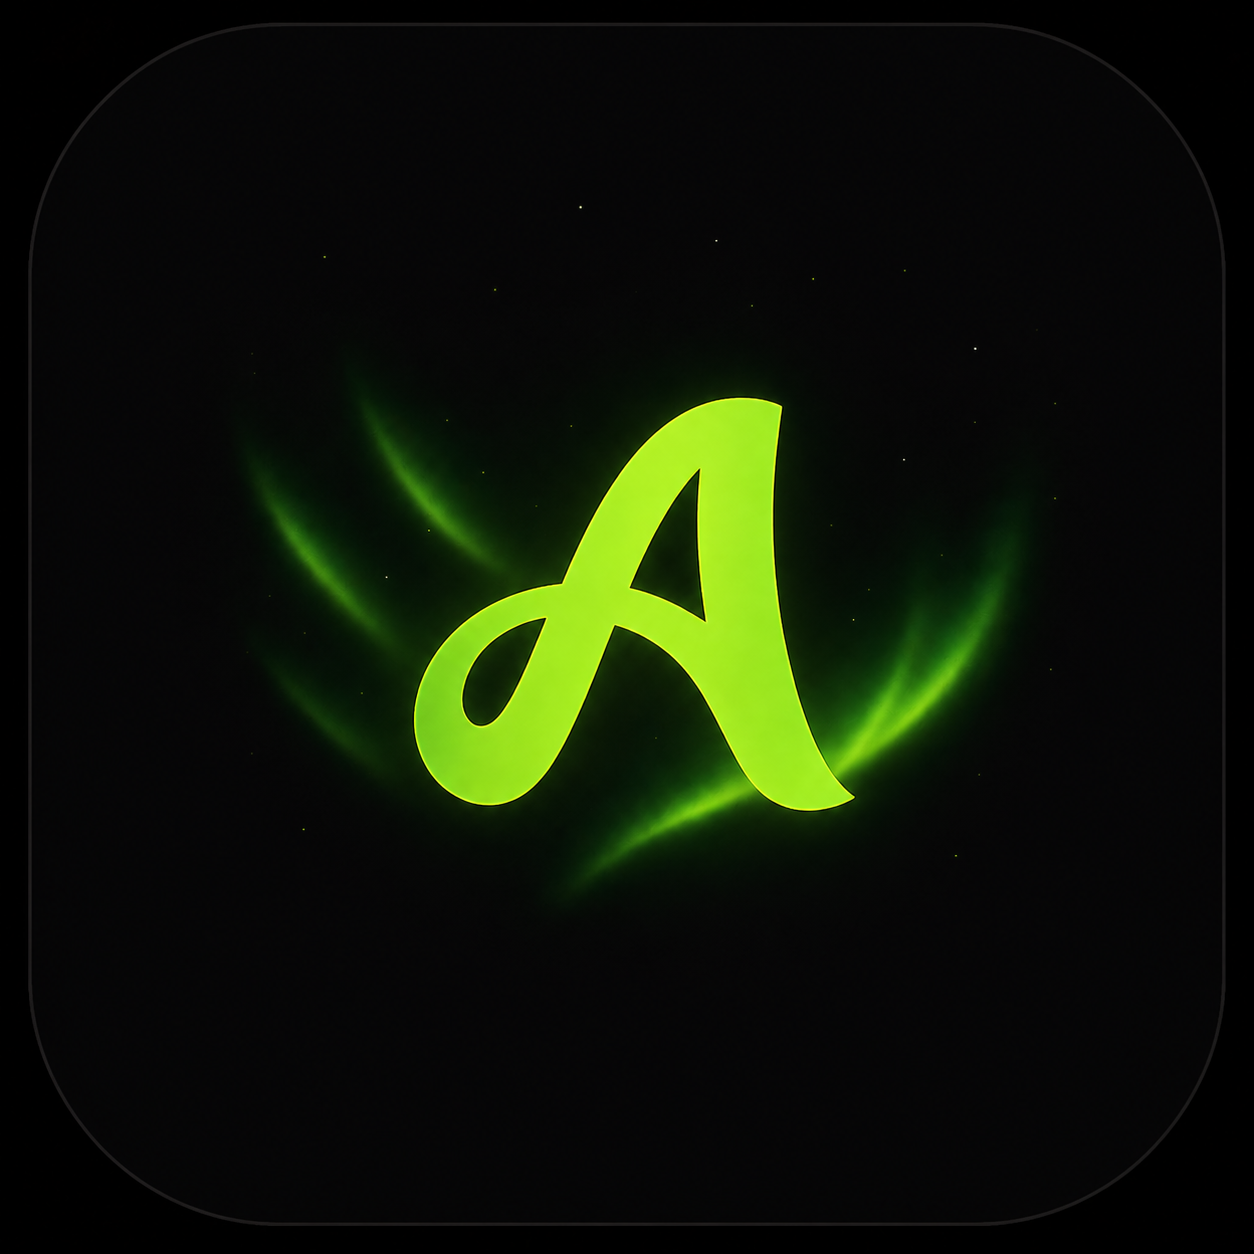
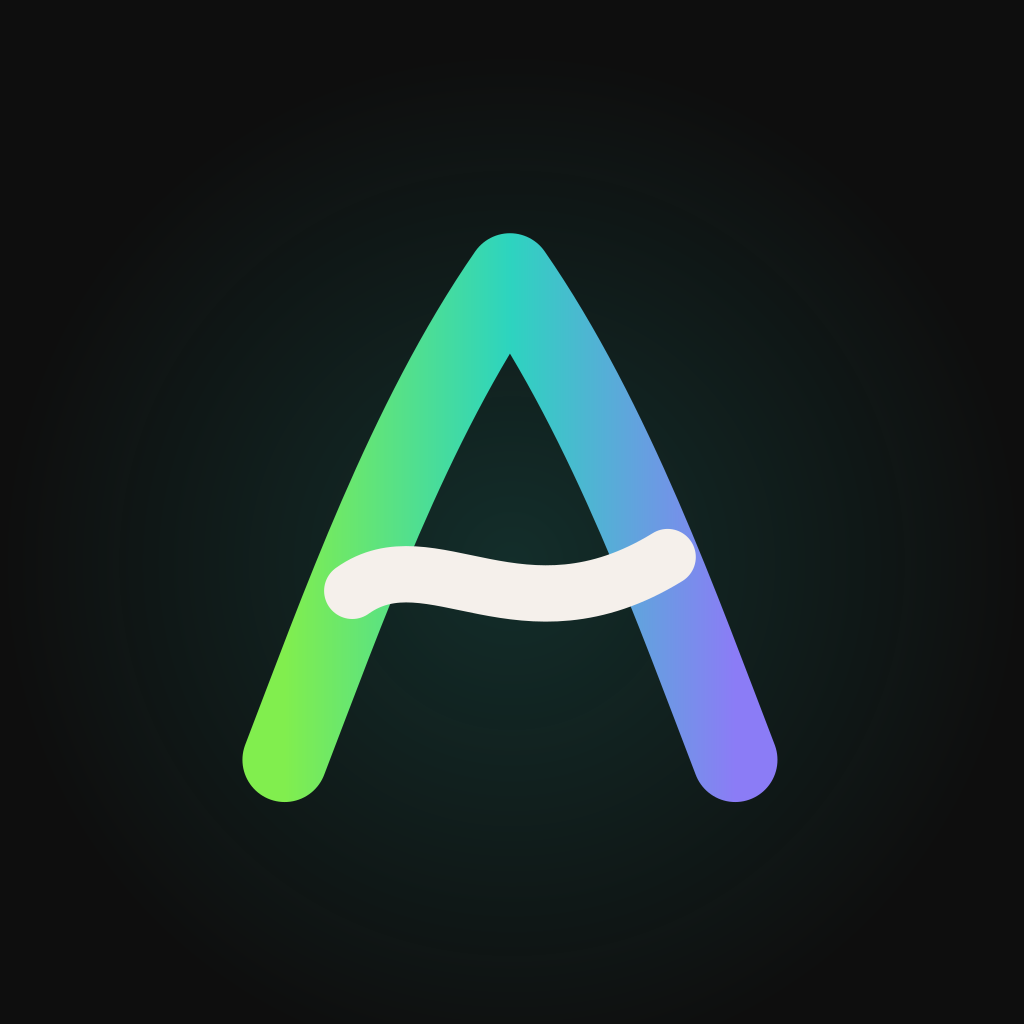
branding changes

Changed region(s): [[0.2188, 0.2188, 0.8125, 0.8125]]

diff --git a/apps/web/app/components/Logo.tsx b/apps/web/app/components/Logo.tsx
@@ -1,57 +1,87 @@
 import Link from "next/link";
-import Image from "next/image";
-import { SITE_LOGO_URL } from "@/lib/site";
+import { useId } from "react";
+
+/**
+ * Aurora logo: the ribbon "A" (aurora gradient legs, wave crossbar) is the first
+ * letter of the wordmark. Everything is inline SVG — the "urora" letters are
+ * Manrope ExtraBold converted to outlines — so it renders identically everywhere
+ * and needs no font download. Static files live in /public/brand.
+ */
+
+const LEGS = "M8 47 C 13 34, 19 17, 28 4 C 37 17, 43 34, 48 47";
+const BAR = "M14 32 C 21 27, 29 37, 42 29";
+const WORD =
+  "M2034 32Q1907 32 1827 -11Q1747 -54 1702 -120Q1658 -186 1639 -258Q1620 -329 1616 -388Q1612 -447 1612 -474V-1080H1888V-570Q1888 -533 1892 -476Q1896 -418 1917 -360Q1938 -302 1986 -263Q2033 -224 2120 -224Q2155 -224 2195 -235Q2235 -246 2270 -278Q2305 -309 2328 -370Q2350 -432 2350 -532V-1080H2624V0H2384V-111Q2347 -69 2298 -37Q2193 32 2034 32Z M2864 0V-1080H3104V-906Q3117 -930 3134 -952Q3169 -998 3220 -1028Q3259 -1052 3305 -1066Q3351 -1079 3400 -1082Q3449 -1086 3498 -1080V-826Q3453 -840 3394 -836Q3334 -831 3286 -808Q3238 -786 3205 -750Q3172 -713 3155 -664Q3138 -614 3138 -552V0Z M4134 30Q3971 30 3848 -43Q3725 -116 3656 -244Q3588 -373 3588 -540Q3588 -709 3658 -838Q3728 -966 3851 -1038Q3974 -1110 4134 -1110Q4297 -1110 4420 -1037Q4544 -964 4613 -836Q4682 -707 4682 -540Q4682 -372 4612 -244Q4543 -115 4420 -42Q4296 30 4134 30ZM4134 -224Q4265 -224 4330 -312Q4394 -401 4394 -540Q4394 -684 4328 -770Q4263 -856 4134 -856Q4045 -856 3988 -816Q3931 -776 3904 -705Q3876 -634 3876 -540Q3876 -395 3942 -310Q4007 -224 4134 -224Z M4862 0V-1080H5102V-906Q5115 -930 5132 -952Q5167 -998 5218 -1028Q5257 -1052 5303 -1066Q5349 -1079 5398 -1082Q5447 -1086 5496 -1080V-826Q5451 -840 5392 -836Q5332 -831 5284 -808Q5236 -786 5203 -750Q5170 -713 5153 -664Q5136 -614 5136 -552V0Z M5946 30Q5830 30 5750 -14Q5669 -59 5628 -134Q5586 -208 5586 -298Q5586 -373 5609 -435Q5632 -497 5684 -544Q5735 -592 5822 -624Q5882 -646 5965 -663Q6048 -680 6153 -696Q6215 -705 6284 -715Q6276 -782 6240 -817Q6194 -862 6086 -862Q6026 -862 5961 -833Q5896 -804 5870 -730L5624 -808Q5665 -942 5778 -1026Q5891 -1110 6086 -1110Q6229 -1110 6340 -1066Q6451 -1022 6508 -914Q6540 -854 6546 -794Q6552 -734 6552 -660V0H6314V-133Q6250 -57 6178 -19Q6086 30 5946 30ZM6004 -184Q6079 -184 6130 -210Q6182 -237 6212 -271Q6243 -305 6254 -328Q6275 -372 6279 -431Q6281 -466 6281 -495Q6214 -483 6166 -475Q6091 -461 6045 -450Q5999 -439 5964 -426Q5924 -410 5900 -392Q5875 -373 5864 -351Q5852 -329 5852 -302Q5852 -265 5870 -238Q5889 -212 5923 -198Q5957 -184 6004 -184Z";
+
+/** Lockup width ÷ height. */
+const FULL_RATIO = 6552 / 1510;
 
 interface LogoProps {
-  href?: string;
+  /** Link target; pass `null` to render without a link. */
+  href?: string | null;
+  /** Rendered height in px. */
+  height?: number;
+  /** `full` = A + "urora" wordmark, `mark` = the A on its own. */
+  variant?: "full" | "mark";
   showTagline?: boolean;
-  /** Icon size in px (navbar default 35). */
-  size?: number;
-  priority?: boolean;
-  /**
-   * Skip `/_next/image` and load `src` directly. Default true for the Cloudinary logo
-   * so production doesn’t depend on the optimizer fetching remote URLs (navbar/footer behave the same).
-   */
-  unoptimized?: boolean;
+  className?: string;
 }
 
-const Logo = ({
-  href = "/",
-  showTagline = false,
-  size = 35,
-  priority = true,
-  unoptimized = true,
-}: LogoProps) => {
-  const content = (
-    <div className="flex items-center gap-2">
-      <Image
-        src={SITE_LOGO_URL}
-        alt="Aurora"
-        width={size}
-        height={size}
+function Mark({ gradientId }: { gradientId: string }) {
+  return (
+    <>
+      <defs>
+        <linearGradient id={gradientId} gradientUnits="userSpaceOnUse" x1="8" y1="0" x2="48" y2="0">
+          <stop offset="0" stopColor="#81ee4e" />
+          <stop offset="0.5" stopColor="#2dd4bf" />
+          <stop offset="1" stopColor="#8b7cf6" />
+        </linearGradient>
+      </defs>
+      <path d={LEGS} fill="none" stroke={`url(#${gradientId})`} strokeWidth="8.6" strokeLinecap="round" strokeLinejoin="round" />
+      <path d={BAR} fill="none" stroke="currentColor" strokeWidth="5.4" strokeLinecap="round" />
+    </>
+  );
+}
+
+const Logo = ({ href = "/", height = 24, variant = "full", showTagline = false, className = "" }: LogoProps) => {
+  const gradientId = `aurora-a-${useId().replace(/[^a-zA-Z0-9_-]/g, "")}`;
+
+  const svg =
+    variant === "mark" ? (
+      <svg viewBox="0 -2.5 56 56" width={height} height={height} role="img" aria-label="Aurora" className="shrink-0">
+        <Mark gradientId={gradientId} />
+      </svg>
+    ) : (
+      <svg
+        viewBox="40 -1480 6552 1510"
+        width={Math.round(height * FULL_RATIO)}
+        height={height}
+        role="img"
+        aria-label="Aurora"
         className="shrink-0"
-        sizes={`${size}px`}
-        priority={priority}
-        unoptimized={unoptimized}
-      />
+      >
+        <g transform="translate(-76 -1460) scale(29)">
+          <Mark gradientId={gradientId} />
+        </g>
+        <path fill="currentColor" d={WORD} />
+      </svg>
+    );
+
+  const content = (
+    <span className={`flex items-center gap-2 ${href ? "" : className}`} style={{ color: "var(--text-primary)" }}>
+      {svg}
       {showTagline && (
-        <span
-          className="text-[10px] tracking-[0.4em] uppercase mt-0.5"
-          style={{ color: 'var(--text-muted)' }}
-        >
+        <span className="mt-0.5 text-[10px] uppercase tracking-[0.4em]" style={{ color: "var(--text-muted)" }}>
           Visual Culture
         </span>
       )}
-    </div>
+    </span>
   );
 
   if (!href) return content;
 
   return (
-    <Link
-      href={href}
-      className="transition-opacity hover:opacity-70"
-    >
+    <Link href={href} className={`shrink-0 transition-opacity hover:opacity-80 ${className}`}>
       {content}
     </Link>
   );

diff --git a/apps/web/app/admin/AdminShell.tsx b/apps/web/app/admin/AdminShell.tsx
@@ -112,7 +112,7 @@ export default function AdminShell({ children }: { children: React.ReactNode }) 
         style={{ borderRight: "1px solid var(--border)", background: "var(--bg-secondary)" }}
       >
         <div className="flex items-center gap-2 px-2 pt-1">
-          <Logo size={28} href="/admin" />
+          <Logo height={22} href="/admin" />
           <span className="text-[10px] uppercase tracking-widest px-1.5 py-0.5 rounded" style={{ color: "var(--accent)", border: "1px solid rgba(129,238,78,0.35)" }}>
             Admin
           </span>
@@ -152,7 +152,7 @@ export default function AdminShell({ children }: { children: React.ReactNode }) 
           style={{ background: "var(--bg-secondary)", borderBottom: "1px solid var(--border)" }}
         >
           <div className="flex items-center gap-2">
-            <Logo size={26} href="/admin" />
+            <Logo height={20} href="/admin" />
             <span className="text-[10px] uppercase tracking-widest" style={{ color: "var(--accent)" }}>Admin</span>
           </div>
           <button

diff --git a/apps/mobileApp/components/SplashScreen.tsx b/apps/mobileApp/components/SplashScreen.tsx
@@ -1,12 +1,11 @@
-import { ActivityIndicator, Image, StyleSheet, Text, View } from "react-native";
+import { ActivityIndicator, Image, StyleSheet, View } from "react-native";
 import { Colors } from "../constants/colors";
 import { Images } from "../constants";
 
 const SplashScreen = () => {
   return (
     <View style={styles.container}>
-      <Image source={{ uri: Images.SITE_LOGO_URL }} style={styles.logo} resizeMode="contain" />
-      <Text style={styles.title}>AURORA</Text>
+      <Image source={Images.LOGO_WORDMARK} style={styles.logo} resizeMode="contain" accessibilityLabel="Aurora" />
       <ActivityIndicator size="small" color={Colors.accent} style={styles.loader} />
     </View>
   );
@@ -20,15 +19,8 @@ const styles = StyleSheet.create({
     justifyContent: "center",
   },
   logo: {
-    width: 96,
-    height: 96,
-  },
-  title: {
-    marginTop: 14,
-    color: Colors.accent,
-    fontSize: 28,
-    fontWeight: "900",
-    letterSpacing: 4,
+    width: 208,
+    height: 48,
   },
   loader: {
     marginTop: 16,

diff --git a/apps/mobileApp/components/Header.tsx b/apps/mobileApp/components/Header.tsx
@@ -28,8 +28,11 @@ const Header = ({ title = "AURORA", logo = true, titleFontSize = 24, showBackBut
         )}
         {(logo || title) && (
           <View style={styles.logoContainer}>
-            {logo && <Image source={{ uri: Images.SITE_LOGO_URL }} style={styles.logo} />}
-            <Text style={[styles.title, { fontSize: titleFontSize }]}>{title}</Text>
+            {logo ? (
+              <Image source={Images.LOGO_WORDMARK} style={styles.logo} resizeMode="contain" accessibilityLabel="Aurora" />
+            ) : (
+              <Text style={[styles.title, { fontSize: titleFontSize }]}>{title}</Text>
+            )}
           </View>
         )}
       </View>
@@ -58,8 +61,8 @@ const styles = StyleSheet.create({
     letterSpacing: 3,
   },
   logo: {
-    width: 26,
-    height: 26,
+    width: 104,
+    height: 24,
   },
   logoContainer: {
     flexDirection: 'row',

diff --git a/apps/web/app/layout.tsx b/apps/web/app/layout.tsx
@@ -1,8 +1,7 @@
-import type { Metadata } from "next";
+import type { Metadata, Viewport } from "next";
 import Script from "next/script";
 import { Geist } from "next/font/google";
 import "./globals.css";
-import { SITE_LOGO_URL } from "@/lib/site";
 import Navbar from "@/app/components/Navbar";
 import Footer from "@/app/components/Footer";
 import ConditionalNavbar from "@/app/components/ConditionalNavbar";
@@ -44,9 +43,12 @@ export const metadata: Metadata = {
   verification: {
     google: "YOOLGUwpRkHS7YCgE1_lseYDOh2BnilnWFIoI_50KuI",
   },
-  icons: {
-    icon: SITE_LOGO_URL,
-  },
+};
+
+/** Dark browser chrome (address bar, Android task switcher) to match the site. */
+export const viewport: Viewport = {
+  themeColor: "#0a0a0a",
+  colorScheme: "dark",
 };
 
 /** Google Analytics 4 (public measurement ID; override with NEXT_PUBLIC_GA_ID). */

diff --git a/apps/web/app/manifest.ts b/apps/web/app/manifest.ts
@@ -1,0 +1,19 @@
+import type { MetadataRoute } from "next";
+
+/** Web app manifest: name, colours and home-screen icons for "Add to Home screen". */
+export default function manifest(): MetadataRoute.Manifest {
+  return {
+    name: "Aurora — Premium Wallpapers",
+    short_name: "Aurora",
+    description: "Discover and download premium wallpapers for desktop and mobile.",
+    start_url: "/",
+    display: "standalone",
+    background_color: "#0a0a0a",
+    theme_color: "#0a0a0a",
+    icons: [
+      { src: "/icon.svg", sizes: "any", type: "image/svg+xml" },
+      { src: "/brand/aurora-app-icon-512.png", sizes: "512x512", type: "image/png" },
+      { src: "/brand/aurora-app-icon-512.png", sizes: "512x512", type: "image/png", purpose: "maskable" },
+    ],
+  };
+}

diff --git a/apps/web/app/components/Navbar.tsx b/apps/web/app/components/Navbar.tsx
@@ -153,11 +153,9 @@ const Navbar = ({ initialCategories = [] }: NavbarProps) => {
         style={{ background: "rgba(10, 10, 10, 0.92)", borderColor: "var(--border)" }}
         aria-label="Main"
       >
-        <div className="flex shrink-0 items-center gap-2.5">
-          <Logo size={32} priority />
-          <Link href="/" className="hidden text-[17px] font-semibold tracking-tight lg:inline" style={{ color: "var(--text-primary)" }}>
-            Aurora
-          </Link>
+        <div className="flex shrink-0 items-center">
+          <Logo height={24} className="hidden sm:flex" />
+          <Logo height={30} variant="mark" className="flex sm:hidden" />
         </div>
 
         {/* Desktop links */}

diff --git a/apps/web/lib/site.ts b/apps/web/lib/site.ts
@@ -1,3 +1,6 @@
-/** Public logo asset (CDN). Used for <Image />, favicon, and Open Graph where applicable. */
-export const SITE_LOGO_URL =
-  "https://res.cloudinary.com/dvzm9b086/image/upload/v1776106005/logo_1266_culdvs.png";
+/**
+ * Square app icon (512px PNG) for places that need a raster logo URL, e.g. structured data.
+ * The favicon and Apple touch icon come from app/icon.svg, app/icon.png and app/apple-icon.png;
+ * the on-page logo is the inline SVG in app/components/Logo.tsx.
+ */
+export const SITE_LOGO_URL = "https://www.aurora-walls.com/brand/aurora-app-icon-512.png";

diff --git a/apps/mobileApp/constants/index.ts b/apps/mobileApp/constants/index.ts
@@ -1,6 +1,9 @@
 export { Colors } from "./colors";
 
 export const Images={
+  /** New ribbon-A wordmark, bundled (@2x/@3x picked automatically). */
+  LOGO_WORDMARK: require("../assets/images/logo-wordmark.png"),
+
   SITE_LOGO_URL: "https://res.cloudinary.com/dvzm9b086/image/upload/v1776106005/logo_1266_culdvs.png",
    
   DEFAULT_PROFILE_IMAGE_URL: "https://res.cloudinary.com/dvzm9b086/image/upload/v1777111502/default-avatar_u5fkkh.png",

diff --git a/apps/web/app/components/Footer.tsx b/apps/web/app/components/Footer.tsx
@@ -15,7 +15,7 @@ export default function Footer() {
     >
       <div className="mx-auto flex max-w-[1400px] flex-wrap items-center justify-between gap-x-6 gap-y-2">
         <div className="flex items-center gap-2">
-          <Logo href="/" size={28} priority />
+          <Logo href="/" height={20} />
           <span
             className="text-[10px] tracking-[0.1em] uppercase"
             style={{ color: "var(--text-muted)" }}

diff --git a/apps/mobileApp/constants/colors.ts b/apps/mobileApp/constants/colors.ts
@@ -17,8 +17,8 @@ export const Colors = {
 
   // Accent — change this one value to retheme the whole app
   accent:      '#81EE4E',
-  accentHover: '#D4B86A',
-  accentMuted: 'rgba(201, 168, 76, 0.15)',
+  accentHover: '#6fd93c',
+  accentMuted: 'rgba(129, 238, 78, 0.15)',
 
   // Borders
   border:      'rgba(255, 255, 255, 0.06)',

diff --git a/apps/web/app/globals.css b/apps/web/app/globals.css
@@ -14,8 +14,8 @@
 
   /* accent — change this one line to switch the whole app */
   --accent: #81ee4e;
-  --accent-hover: #D4B86A;
-  --accent-muted: rgba(201, 168, 76, 0.15);
+  --accent-hover: #6fd93c;
+  --accent-muted: rgba(129, 238, 78, 0.15);
 
   /* borders */
   --border: rgba(255, 255, 255, 0.06);
